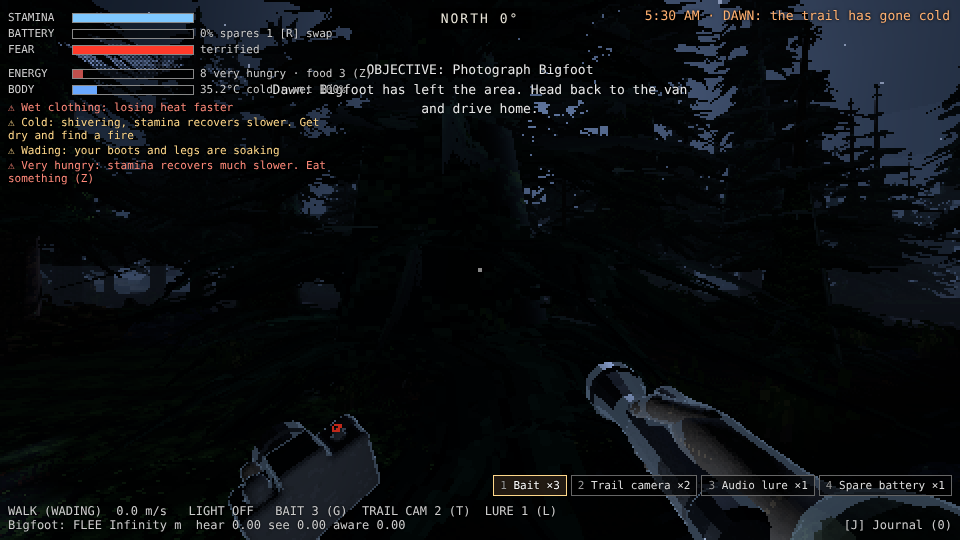
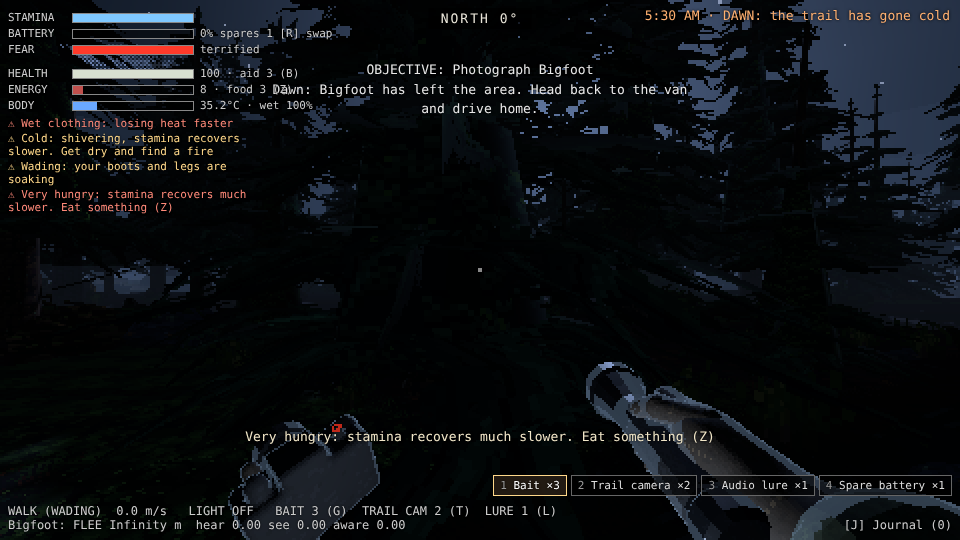
#72 Health, injury and bleeding as the only damage path (#88)
* #72 WIP: health, injuries, bleeding, first aid as the only damage path

Claude-Session: https://claude.ai/code/session_0163yRzLCrst6QKZAZ52itsT

* #72 WIP: captures

Claude-Session: https://claude.ai/code/session_0163yRzLCrst6QKZAZ52itsT

* #72 Health, injury and bleeding as the only damage path

Health 0-100 owned by S08 with bruise/bleeding conditions, first-aid kits
(B bandages), damage once per cause within a grace window, warnings with
cause. Cryptid contact is an injury event; the hunt ends only at health 0.
check-t13 updated to the new rules. Adds check:t72.

Claude-Session: https://claude.ai/code/session_0163yRzLCrst6QKZAZ52itsT

* t72 report: PR link

Claude-Session: https://claude.ai/code/session_0163yRzLCrst6QKZAZ52itsT

---------

diff --git a/src/survival/survival.js b/src/survival/survival.js
@@ -1,5 +1,6 @@
 import { Thermoregulation, THERMO } from './thermoregulation.js';
 import { Nutrition } from './nutrition.js';
+import { Health, HEALTH } from './health.js';
 
 // Survival systems for the tutorial tier (GDD 1.2 S01 Nutrition, S02 Thermoregulation).
 // Each system owns its own state; this module steps them in the GDD order (environment first,
@@ -12,10 +13,13 @@ export class Survival {
     this.player = player;
     this.thermo = new Thermoregulation({ player, airTemp: map.environment?.airTemp ?? 6, heatSources, surfaceAt: map.surfaceAt });
     this.nutrition = new Nutrition({ player, food, getCold: () => this.thermo.coldDeficit });
+    // S08: the only damage path. onDeath is set by the hunt (health 0 ends it).
+    this.health = new Health({ onDeath: (cause) => this.onDeath?.(cause) });
     this.shown = new Set();
     this.buildHud();
     addEventListener('keydown', (e) => {
       if (e.code === 'KeyZ' && !e.repeat && input.locked) this.eat();
+      if (e.code === 'KeyB' && !e.repeat && input.locked) this.bandage();
     });
   }
 
@@ -25,9 +29,17 @@ export class Survival {
     return r;
   }
 
+  bandage() {
+    const h = this.health;
+    const ok = h.bandage();
+    this.toast(ok ? 'Bandaging the wound…' : !h.bleeding.length ? 'Nothing to bandage' : h.firstAid <= 0 ? 'No first-aid kits left' : 'Already bandaging');
+    return ok;
+  }
+
   update(dt) {
     this.thermo.update(dt);
     this.nutrition.update(dt);
+    this.health.update(dt);
     const hunger = this.nutrition.hungerDeficit * 0.5, cold = this.thermo.coldDeficit * 0.6;
     this.player.recoveryScale = Math.max(0.25, 1 - hunger - cold);
   }
@@ -36,7 +48,7 @@ export class Survival {
   setWarningSource(fn) { this.warningSource = fn; }
 
   /** Every active warning, each naming its cause. */
-  warnings() { return [...this.thermo.warnings(), ...this.nutrition.warnings()]; }
+  warnings() { return [...this.health.warnings(), ...this.thermo.warnings(), ...this.nutrition.warnings()]; }
 
   // --- HUD -------------------------------------------------------------------------------
   buildHud() {
@@ -47,7 +59,7 @@ export class Survival {
 #survival .row > span:first-child { width: 58px; }
 #survival .track { width: 120px; height: 8px; background: #0008; border: 1px solid #888; }
 #survival .fill { height: 100%; }
-#survival .warn { margin-top: 4px; max-width: 320px; }
+#survival .warn { margin-top: 4px; max-width: 250px; }
 #survival .warn div { padding: 1px 0; }
 #survival .warn .l1 { color: #ffd88a; } #survival .warn .l2 { color: #ff8a7a; } #survival .warn .l0 { color: #bbb; }
 #survival-toast { position: fixed; left: 50%; bottom: 96px; transform: translateX(-50%); font: 13px monospace; color: #f1e6c8;
@@ -55,6 +67,7 @@ export class Survival {
     document.head.append(css);
     this.el = Object.assign(document.createElement('div'), { id: 'survival' });
     this.el.innerHTML = `
+      <div class="row"><span>HEALTH</span><div class="track"><div class="fill h"></div></div><span class="hn"></span></div>
       <div class="row"><span>ENERGY</span><div class="track"><div class="fill e"></div></div><span class="en"></span></div>
       <div class="row"><span>BODY</span><div class="track"><div class="fill t"></div></div><span class="tn"></span></div>
       <div class="warn"></div>`;
@@ -63,15 +76,19 @@ export class Survival {
   }
 
   render() {
-    const n = this.nutrition, t = this.thermo;
+    const n = this.nutrition, t = this.thermo, h = this.health;
+    const hf = this.el.querySelector('.fill.h');
+    hf.style.width = `${(h.value / HEALTH.max * 100).toFixed(1)}%`;
+    hf.style.background = h.value <= 15 ? '#ff3a2a' : h.bleeding.length ? '#e05050' : h.value <= 40 ? '#e0a040' : '#d8e0d0';
+    this.el.querySelector('.hn').textContent = `${Math.ceil(h.value)}${h.bleeding.length ? ' BLEEDING' : ''} · aid ${h.firstAid} (B)`;
     const e = this.el.querySelector('.fill.e'), tf = this.el.querySelector('.fill.t');
     e.style.width = `${n.energy.toFixed(1)}%`;
     e.style.background = n.energy <= 25 ? '#c0504d' : n.energy <= 50 ? '#e0a040' : '#8fd07a';
-    this.el.querySelector('.en').textContent = `${Math.round(n.energy)}  ${n.band}  · food ${n.foodLeft} (Z)`;
+    this.el.querySelector('.en').textContent = `${Math.round(n.energy)} · food ${n.foodLeft} (Z)`;
     const frac = (t.core - THERMO.floor) / (THERMO.ceiling - THERMO.floor);
     tf.style.width = `${(Math.max(0, Math.min(1, frac)) * 100).toFixed(1)}%`;
     tf.style.background = t.core < THERMO.coldBelow ? '#6aa8ff' : t.core < THERMO.comfortLow ? '#a8c8ff' : '#f0c070';
-    this.el.querySelector('.tn').textContent = `${t.core.toFixed(1)}°C ${t.band}${t.wetness >= 5 ? ` · wet ${Math.round(t.wetness)}%` : ''}${t.nearHeat ? ` · warming (${t.nearHeat})` : ''}`;
+    this.el.querySelector('.tn').textContent = `${t.core.toFixed(1)}°C${t.wetness >= 5 ? ` · wet ${Math.round(t.wetness)}%` : ''}${t.nearHeat ? ' · warming' : ''}`;
     // The HUD list can be fed by the consolidated status model (GDD 2.11, #71).
     const w = this.warningSource ? this.warningSource() : this.warnings();
     const html = w.map((x) => `<div class="l${x.level}">⚠ ${x.text}</div>`).join('');

diff --git a/src/survival/health.js b/src/survival/health.js
@@ -1,0 +1,98 @@
+// S08 Injury & medical (GDD 1.2, 2.2 P01, 2.3 D02, 2.8, 9.1, 14.1). The ONLY damage path:
+// other systems submit cause-tagged injury events; this system owns health (0-100) and the list
+// of conditions, applies each event once per cause within a grace window, and is the one place
+// health ever changes. Health 0 is the terminal state.
+//
+//   Bruise:          the hit itself; no ongoing loss.
+//   Bleeding wound:  keeps draining health until you bandage it (B, uses a first-aid kit).
+//                    Bandaging stops the bleeding (stabilised) and restores a little health.
+
+export const HEALTH = {
+  max: 100,
+  grace: 2.0,               // seconds before the same cause can injure you again
+  bleedRate: { light: 0.5, heavy: 1.5 },   // health per second until bandaged
+  bandageHeal: 10,          // a dressing also restores a little health
+  bandageTime: 1.5,         // seconds of fumbling with the kit before it takes effect
+  firstAidUses: 3,          // D01 First-aid kit x3 (GDD 3.2)
+};
+
+export class Health {
+  constructor({ firstAid = HEALTH.firstAidUses, onDeath = () => {} } = {}) {
+    this.value = HEALTH.max;
+    this.conditions = [];          // { id, kind: 'bruise'|'bleeding'|'dressed', severity, cause, at }
+    this.firstAid = firstAid;
+    this.onDeath = onDeath;
+    this.time = 0;
+    this.graceUntil = new Map();   // cause -> sim time
+    this.log = [];                 // every applied event { t, cause, damage, wound, healthAfter }
+    this.bandaging = null;         // { left } while a dressing is being applied
+    this.nextId = 1;
+    this.dead = false;
+  }
+
+  get bleeding() { return this.conditions.filter((c) => c.kind === 'bleeding'); }
+
+  /**
+   * Submit an injury event. Returns the applied event, or null if it was absorbed by the grace
+   * window for that cause (so one contact never deals damage twice).
+   */
+  injure({ cause, damage, wound = 'bruise', severity = 'light' }) {
+    if (this.dead) return null;
+    if (this.time < (this.graceUntil.get(cause) ?? -Infinity)) return null;
+    this.graceUntil.set(cause, this.time + HEALTH.grace);
+    this.value = Math.max(0, this.value - damage);
+    this.conditions.push({ id: this.nextId++, kind: wound, severity, cause, at: this.time });
+    const ev = { t: +this.time.toFixed(3), cause, damage, wound, severity, healthAfter: +this.value.toFixed(2) };
+    this.log.push(ev);
+    if (this.value <= 0) this.die(cause);
+    return ev;
+  }
+
+  /** Start bandaging the worst bleeding wound (uses one first-aid kit). Returns false if not possible. */
+  bandage() {
+    if (this.dead || this.bandaging || this.firstAid <= 0 || !this.bleeding.length) return false;
+    this.firstAid--;
+    this.bandaging = { left: HEALTH.bandageTime };
+    return true;
+  }
+
+  update(dt) {
+    this.time += dt;
+    if (this.dead) return;
+    for (const c of this.bleeding) this.value -= HEALTH.bleedRate[c.severity] * dt;
+    if (this.bandaging && (this.bandaging.left -= dt) <= 0) {
+      this.bandaging = null;
+      const worst = this.bleeding.sort((a, b) => HEALTH.bleedRate[b.severity] - HEALTH.bleedRate[a.severity])[0];
+      if (worst) { worst.kind = 'dressed'; this.value = Math.min(HEALTH.max, this.value + HEALTH.bandageHeal); }
+    }
+    if (this.value <= 0) { this.value = 0; this.die(this.bleeding[0]?.cause ?? 'Your wounds'); }
+  }
+
+  die(cause) {
+    if (this.dead) return;
+    this.dead = true;
+    this.value = 0;
+    this.onDeath(cause);
+  }
+
+  get band() {
+    const v = this.value;
+    if (v > 70) return 'ok';
+    if (v > 40) return 'hurt';
+    if (v > 15) return 'badly hurt';
+    return 'critical';
+  }
+
+  /** Warnings naming the cause (GDD 2.11). */
+  warnings() {
+    const w = [];
+    const b = this.bleeding;
+    if (b.length) {
+      const heavy = b.some((c) => c.severity === 'heavy');
+      w.push({ id: 'bleeding', level: 2, text: `${heavy ? 'Heavy bleeding' : 'Bleeding wound'} (${b[0].cause}): losing health. ${this.firstAid ? 'Bandage it (B)' : 'No first-aid left: get back to the van'}` });
+    }
+    if (this.bandaging) w.push({ id: 'bandaging', level: 0, text: 'Bandaging the wound…' });
+    if (this.value <= 15 && !this.dead) w.push({ id: 'critical', level: 2, text: 'Critically hurt: one more hit could end the hunt' });
+    return w;
+  }
+}

diff --git a/src/hunt/huntFailure.js b/src/hunt/huntFailure.js
@@ -10,8 +10,9 @@ import { PLAYER } from '../player.js';
 // (e.g. a charge that connects), or caught(name) to end the hunt outright.
 const HIT_GRACE = 1.5; // seconds after a survivable hit before the same cryptid can count again
 export class HuntFailure {
-  constructor({ player, getThreats = () => [], onRestart = () => location.reload() }) {
+  constructor({ player, getThreats = () => [], onRestart = () => location.reload(), health = null }) {
     this.player = player;
+    this.health = health;        // S08 (#72): when set, a contact is an injury event, and only health 0 ends the hunt
     this.getThreats = getThreats;
     this.onRestart = onRestart;
     this.enabled = true;
@@ -40,6 +41,7 @@ export class HuntFailure {
   /** A cryptid made contact. Ends the hunt once it has touched you `catchHits` times. */
   touched(name = 'Something', catchHits = 1) {
     if (!this.enabled || this.isCaught) return;
+    if (this.health) return this.injured(name, contactInjury(catchHits));
     const now = this.time ?? 0;              // simulation seconds (#66: no wall clock in the sim)
     if (now < (this.graceUntil.get(name) ?? 0)) return;
     const n = (this.hits.get(name) ?? 0) + 1;
@@ -50,11 +52,22 @@ export class HuntFailure {
     this.showHit(`${name} got hold of you! You shook it off.\n${left} more and you're caught.`);
   }
 
+  /** A contact through the health system: wound you, and end the hunt only if health hits 0. */
+  injured(name, injury) {
+    const ev = this.health.injure({ cause: name, ...injury });
+    if (!ev || this.health.dead) return ev;   // absorbed by the grace window, or it killed you (onDeath -> caught)
+    const wound = ev.wound === 'bleeding' ? `${ev.severity === 'heavy' ? 'Heavy bleeding' : 'Bleeding wound'}: bandage it (B)` : 'Bruised';
+    this.showHit(`${name} struck you! −${ev.damage} health\n${wound}`);
+    return ev;
+  }
+
   caught(name = 'Something') {
     if (!this.enabled || this.isCaught) return;
     this.isCaught = true;
     this.caughtBy = name;
-    this.reason.textContent = `${name} got you. The hunt is over, and any unsaved evidence is lost.`;
+    this.reason.textContent = this.health
+      ? `${name === 'Your wounds' ? 'You bled out' : `${name} got you`}. The hunt is over, and any unsaved evidence is lost.`
+      : `${name} got you. The hunt is over, and any unsaved evidence is lost.`;
     this.screen.style.display = 'flex';
     document.exitPointerLock?.();
     // Short delay so a held key or the click that was in flight doesn't skip the screen.
@@ -100,4 +113,15 @@ export class HuntFailure {
     s.addEventListener('click', () => this.restart());
     addEventListener('keydown', (e) => { if (e.code === 'Space' || e.code === 'Enter') this.restart(); });
   }
+}
+
+/**
+ * The injury a cryptid's contact deals, from how tough it is (its catchHits): something that
+ * used to take you in one grab now leaves you badly hurt and bleeding heavily; smaller ones wound
+ * lightly. Two big hits, or untreated bleeding, still end the hunt.
+ */
+export function contactInjury(catchHits = 1) {
+  if (catchHits <= 1) return { damage: 60, wound: 'bleeding', severity: 'heavy' };
+  if (catchHits === 2) return { damage: 40, wound: 'bleeding', severity: 'light' };
+  return { damage: 30, wound: 'bleeding', severity: 'light' };
 }

diff --git a/src/ui/statusModel.js b/src/ui/statusModel.js
@@ -1,5 +1,5 @@
 // Player status (GDD 2.11, 13.1): one read-only view over every system that affects the player.
-// It owns no state: it reads stamina (player), energy (S01 nutrition), body temperature and
+// It owns no state: it reads health and wounds (S08), stamina (player), energy (S01 nutrition), body temperature and
 // wetness (S02 thermoregulation), fear, and torch power, then names for each condition:
 //   cause  - the root cause ("Wet clothing", "Darkness"), never a downstream symptom;
 //   effect - what it does to you now, or what it is about to do;
@@ -43,6 +43,21 @@ export class StatusModel {
     const add = (c) => out.push({ ...c, severityName: SEVERITY[c.severity] });
     const p = this.player, s = this.survival, f = this.fear, fl = this.flashlight;
     const recovery = Math.round((p.recoveryScale ?? 1) * 100);
+
+    if (s?.health) {   // S08 (#72): wounds come first, they're the only thing that can end the hunt
+      const h = s.health, bleeding = h.bleeding;
+      const fixWound = h.firstAid ? `Bandage it (B): ${h.firstAid} first-aid kit${h.firstAid === 1 ? '' : 's'} left` : 'No first-aid left: get back to the van';
+      if (bleeding.length) {
+        const heavy = bleeding.some((c) => c.severity === 'heavy');
+        add({ id: 'bleeding', stage: 'now', severity: 2, name: heavy ? 'Heavy bleeding' : 'Bleeding',
+          cause: `Wound from ${bleeding[0].cause}`, effect: `Losing health (${Math.ceil(h.value)} left): at 0 the hunt is over`, fix: fixWound });
+      }
+      if (h.value <= 40 && !h.dead) {
+        add({ id: 'hurt', stage: 'now', severity: h.value <= 15 ? 2 : 1, name: h.value <= 15 ? 'Critically hurt' : 'Badly hurt',
+          cause: h.conditions.length ? `Injured by ${h.conditions[h.conditions.length - 1].cause}` : 'Injured', effect: 'Another hit could end the hunt',
+          fix: 'Keep your distance and head back to the van' });
+      }
+    }
 
     if (s) {
       const n = s.nutrition, t = s.thermo;
@@ -119,6 +134,7 @@ export class StatusModel {
   attributes() {
     const p = this.player, s = this.survival, f = this.fear, fl = this.flashlight;
     const a = [{ id: 'stamina', name: 'Stamina', value: p.stamina, text: `${Math.round(p.stamina * 100)}%${p.exhausted ? ' (winded)' : ''}` }];
+    if (s?.health) a.push({ id: 'health', name: 'Health', value: s.health.value / 100, text: `${Math.ceil(s.health.value)} (${s.health.band})${s.health.bleeding.length ? ' · bleeding' : ''} · ${s.health.firstAid} first-aid` });
     if (s) {
       const n = s.nutrition, t = s.thermo;
       a.push({ id: 'energy', name: 'Energy', value: n.energy / 100, text: `${Math.round(n.energy)} (${n.band})` });

diff --git a/src/main.js b/src/main.js
@@ -303,9 +303,9 @@ const shop = showShopPanel(camp, {
 // First-person hands and gear: torch in the right hand, camera in the left, goggles and trail cam on use.
 const viewmodel = new Viewmodel({ camera, player, flashlight, photo, nightVision, trailCams });
 
-// Getting touched by a cryptid ends the hunt.
+// A cryptid's contact is an injury event (S08); the hunt ends when health reaches 0.
 const huntFailure = new HuntFailure({
-  player,
+  player, health: survival.health,   // #72: contacts wound you; only health 0 ends the hunt
   getThreats: () => [
     ...cryptids.cryptids.map((c) => ({ name: c.profile.name, x: c.agent.x, z: c.agent.z, y0: 0, y1: c.profile.height, radius: c.profile.radius, catchHits: c.profile.catchHits ?? 1 })),
     ...(!sandbox ? [] : [
@@ -314,6 +314,7 @@ const huntFailure = new HuntFailure({
     ]),
   ],
 });
+survival.onDeath = (cause) => huntFailure.caught(cause);
 chupacabra.onHit = () => {
   huntFailure.touched('The Chupacabra', CHUPA.catchHits);
   chupacabra.flash.style.display = 'none'; // the hunt's own hit flash / Caught screen replaces it

diff --git a/.ballast/reports/t72.md b/.ballast/reports/t72.md
@@ -1,0 +1,17 @@
+STATUS: DONE
+- Health is now the only way to get hurt. A HEALTH bar sits above energy (out of 100, with "BLEEDING" and your first-aid kits), and a cryptid's contact is an injury instead of an instant end. Bigfoot or the Mothman leaves you at 40 health with a heavy bleeding wound; the test prowler 40 damage and the Chupacabra 30, each with a lighter wound. A red flash says e.g. "Bigfoot struck you! −60 health / Heavy bleeding: bandage it (B)".
+- Each contact counts once: staying in reach doesn't stack hits for 2 seconds. Bleeding keeps draining health (heavy is about 1.5 a second) until you bandage it. Press B to use one of your three first-aid kits: after a moment the bleeding stops and you get 10 health back. The warning names the cause and the fix: "Heavy bleeding (Bigfoot): losing health. Bandage it (B)".
+- The hunt ends only when health reaches 0, from a second big hit or a wound left to bleed out. Then you see the usual Caught screen, with that night's photos lost and your gear kept.
+- How to see it: `npm run dev`, let Bigfoot reach you, then press B.
+- Verified (`npm run check:t72`): Bigfoot's hit took health 100 → 40 with heavy bleeding and the hunt went on; 1.5 s more in contact added no second hit; bleeding drained it to 31.8; B stopped it (39.5, steady for 10 s, kits 3 → 2); a second hit took it to 0 and ended the hunt; untreated bleeding alone also ended it. I updated the older caught-state check (#13) to the new rules (a Chupacabra wounds then eventually finishes you; one Bigfoot touch no longer ends the hunt). The hunt, base camp, album, survival, fear, determinism and AI checks still pass. Captures in `.ballast/media/t72/`.
+- Assumptions: three first-aid kits per hunt (base camp doesn't stock them yet); no health recovery in the field except dressings; cold and hunger still never damage health in this tutorial map.
+- PR: https://github.com/nsmith-gd/cryptidhunter/pull/88
+
+## Questions
+### How hard should Bigfoot hit?
+Context: Bigfoot used to end the hunt the instant it touched you. Now one grab leaves you at 40 health and bleeding heavily: bandage within about 25 seconds or you bleed out, and a second grab finishes you.
+Options: - Two grabs (current: one mistake is survivable if you bandage)
+- One grab still ends the hunt (Bigfoot stays terrifying; health matters only for smaller creatures)
+- Three grabs (more forgiving first map)
+Going with: two grabs, so being caught becomes a tense recovery moment rather than an instant end.
+Capture: 01-struck-bleeding.png
